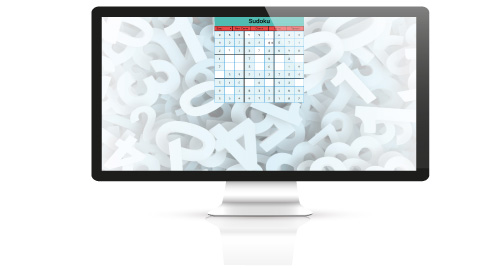
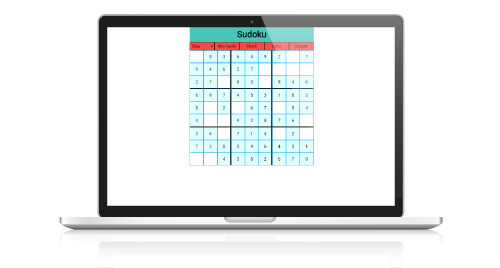
Add two positions to the portfolio

diff --git a/index.php b/index.php
@@ -174,7 +174,31 @@
     <div class="container">
       <h3>MY PROJECTS</h3>
       <div class="content">
-        <div class="sinngle-project">   <!-- Battleship -->
+      <div class="sinngle-project">   <!-- Blog Justyny -->
+          <div class="col-7 col-s-12">
+            <img alt="Blog Justyny" src="images/blog-justyny.jpg">
+          </div>
+          <div class="col-5 col-s-12">
+            <h2>Blog Justyny</h2>
+            <h4>Web page with recipes</h4>
+            <ul>
+              <li><i class="fas fa-check"></i>Laravel</li>
+              <li><i class="fas fa-check"></i>VUE.js</li>
+              <li><i class="fas fa-check"></i>PHP</li>
+              <li><i class="fas fa-check"></i>JavaScript</li>
+              <li><i class="fas fa-check"></i>SCSS</li>
+            </ul>
+            <a href="https://blogjustyny.pl/" target="_blank">
+              <button class="btn btn-success">blogjustyny.pl</button>
+            </a>
+            <a href="https://github.com/aleksandergorecki80/cakes" target="_blank">
+              <button class="btn btn-warning">See on Github</button>
+            </a>
+          </div>
+          <div class="col-12 line"><hr></div>
+        </div>
+
+      <div class="sinngle-project">   <!-- Battleship -->
           <div class="col-7 col-s-12">
             <img alt="Battleship" src="images/batleship.jpg">
           </div>
@@ -237,6 +261,27 @@
               <button class="btn btn-success">View online</button>
             </a>
             <a href="https://github.com/aleksandergorecki80/9_7a__Play_with_Dr-Sheldon-Cooper" target="_blank">
+              <button class="btn btn-warning">See on Github</button>
+            </a>
+          </div>
+          <div class="col-12 line"><hr></div>
+        </div>
+        <div class="sinngle-project">   <!-- SUDOKU -->
+          <div class="col-7 col-s-12">
+            <img alt="Sudoku" src="images/sudoku.jpg">
+          </div>
+          <div class="col-5 col-s-12">
+            <h2>SUDOKU</h2>
+            <h4>React game</h4>
+            <ul>
+              <li><i class="fas fa-check"></i>React</li>
+              <li><i class="fas fa-check"></i>Webpack</li>
+              <li><i class="fas fa-check"></i>NPM</li>
+            </ul>
+            <a href="https://aleksandergorecki80.github.io/17_8_Sudoku_game/" target="_blank">
+              <button class="btn btn-success">View online</button>
+            </a>
+            <a href="https://github.com/aleksandergorecki80/17_8_Sudoku_game" target="_blank">
               <button class="btn btn-warning">See on Github</button>
             </a>
           </div>
